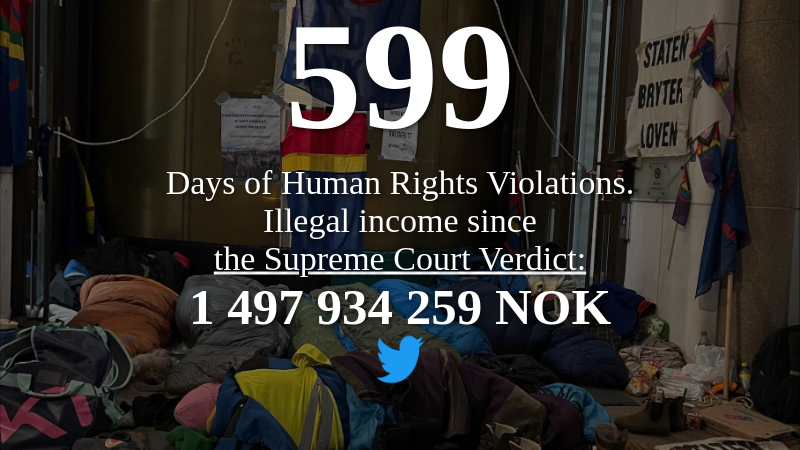
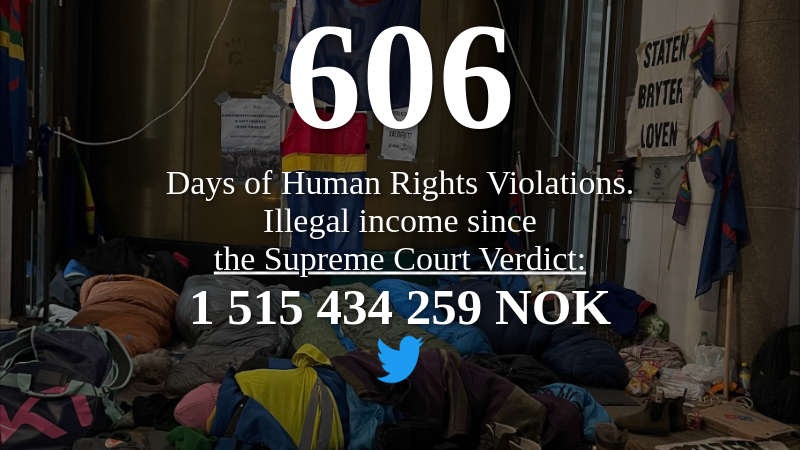
Changed 2500000 to 1400000

Changed region(s): [[0.3438, 0.0622, 0.6562, 0.3111], [0.2812, 0.6533, 0.4375, 0.7467]]

diff --git a/index.html b/index.html
@@ -19,7 +19,7 @@
     var countDate = Date.UTC(2021, 9, 11); // Months are 0-based in JavaScript, so October is 9
 
     // Daily income in NOK
-    var dailyIncome = 2500000;
+    var dailyIncome = 1400000;
 
     // Income per second (daily income divided by number of seconds in a day)
     var incomePerSecond = dailyIncome / (24 * 60 * 60);
